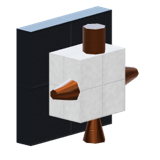
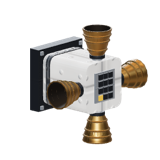
docs(plan-277): complete; 278 refined to parachutes and probe cores, new pods split to 300, RCS follow-ups in 299

diff --git a/docs/plans/277-rcs-family.md b/docs/plans/277-rcs-family.md
@@ -1,8 +1,8 @@
 ---
 id: 277
 title: "RCS family: 4-way block remodel, 5-way, linear port, corner block, bipropellant thruster, per-axis toggles"
-status: draft
-owner: ""
+status: done
+owner: "part visuals session (Claude)"
 depends: [291]
 phase: 0
 created: 2026-10-21
@@ -13,7 +13,7 @@ updated: 2026-10-21
 
 ## Goal
 
-RCS parts look like the owner's reference (rounded housing with panels and keypad, dark base plate, stub pipes, ribbed hollow bronze bells) and come in the shapes players need: 4-way, 5-way (Apollo quad), linear port, corner block and a large bipropellant thruster; each axis (pitch, yaw, roll, translate) can be toggled per part.
+RCS parts look like the owner's reference (the RV-105 card): a rounded white housing with a seam band and an inset keypad, a dark base plate with corner bolts, a short stub pipe and a collar per nozzle, and ribbed, hollow bronze bells. The family covers the shapes players need: the 4-way block, a 5-way block (the 4-way cross plus one nozzle out of the front, as on a service module's quads), a 2-way pair along the hull, a 1-nozzle linear port, and the cold-gas thruster. The bells are drawn exactly where the module's nozzles push, so model, puffs and forces agree.
 
 ## Context
 
@@ -23,8 +23,8 @@ RCS parts look like the owner's reference (rounded housing with panels and keypa
 
 ## Scope
 
-**In:** RCS generator rewrite with variants by `nozzles` layout; new parts; per-axis toggles in `ModuleRcs` if missing (panel and action groups); OrbitX titles.
-**Out:** RCS ports built into pods (278).
+**In:** `rcs-block.ts` rewritten with the kit (bells read from `visual.puffs.nozzles`); new parts `stock.rcs-block-5`, `stock.rcs-pair`, `stock.rcs-linear` in the Reaction control tech node; OrbitX titles for the five thrusters (ADR 0255); tests.
+**Out:** a bipropellant (LF+Ox) thruster and pitch/yaw/roll toggles: both need sim work (`ModuleRcs` burns one propellant, and its torque demand is in the part frame), moved to draft plan 299. The existing rotation and translation toggles stay. RCS ports built into pods (278).
 
 ## Design notes
 
@@ -32,26 +32,29 @@ The nozzle layout is data (directions), so the sim needs no new logic beyond the
 
 ## Steps
 
-1. Rewrite `rcs-block.ts` with the kit.
-2. Add the new parts and their nozzle data.
-3. Axis toggles in the module and panel.
+1. Rewrite `rcs-block.ts`: plate, rounded housing, keypad, and per nozzle a stub, a collar and a ribbed bronze bell at the nozzle's exit, pointing along the exhaust.
+2. Add the three new parts and their tech-node entries; rename the thrusters.
+3. Tests: nozzle data and puffs agree, nozzles inside the box, the new layouts; shape and seam tests.
+4. Icons rendered from the dev server.
 
 ## Acceptance criteria
 
-- [ ] A test asserts every RCS part's model nozzle directions equal its `ModuleRcs` nozzle directions.
-- [ ] With roll disabled on all blocks, a roll command gives zero RCS torque (sim test).
-- [ ] `bun test`, `bun run typecheck`, `bun run build` and `bun run docs:check` pass.
-- [ ] Screenshots of every new or remodelled part (catalogue icon and in the Hangar) in the journal, before and after.
+- [x] A test asserts every RCS part's model nozzles (its puff list, which the generator draws) equal its `ModuleRcs` nozzles, inside its box (`mods/stock/test/rcs.test.ts`).
+- [x] The five-way block can push the vessel inward and the pair only along the hull (same file).
+- [x] Shape, seam and part-id tests pass with the new parts (`parts.test.ts`, `part-seams.test.ts`, `boot.test.ts`, the part-id snapshot: additions only).
+- [x] `bun run lint` (another session's `.claude/launch.json` left out), `bun run typecheck`, `bun run test`, web vitest with `CI=true` and `bun run docs:check` pass, apart from the two script-thread tests that already fail on main (STATUS.md, Known issues).
+- [x] Icons in `refs/part-visuals-and-blueprints/img/icons-after/rcs-*.png`.
 
 ## Docs checklist
 
-- [ ] `docs/STATUS.md` updated (board row, next plan, open issues).
-- [ ] `docs/journal/277-rcs-family.md` written.
-- [ ] Affected `docs/architecture/*.md` updated to match what shipped.
-- [ ] New ADRs written for any decision made here, linked above.
-- [ ] `docs/research/stack-versions.md` updated for anything looked up.
-- [ ] `refs/part-visuals-and-blueprints/parts-tracker.md`: status column of every tracker ID this plan delivers.
+- [x] `docs/STATUS.md` updated (board row, next plan, open issues).
+- [x] `docs/journal/277-rcs-family.md` written.
+- [x] Affected docs: none describe the RCS model.
+- [x] New ADRs: none.
+- [x] `docs/research/stack-versions.md`: nothing looked up.
+- [x] `refs/part-visuals-and-blueprints/parts-tracker.md`: status column of every tracker ID this plan delivers.
 
 ## Log
 
 - 2026-10-21 — Drafted from the part-visuals research and the owner's decisions of 2026-10-21 (CTO calls delegated by the owner). Not to be started until the owner releases the parts work: on 2026-10-21 main is busy with renderer fixes and a UI/UX agent.
+- 2026-10-21 — Refined and done (owner: rocket parts first). Bipropellant thruster and axis toggles moved to draft 299. Journal 277.

diff --git a/docs/roadmap/release-roadmap.md b/docs/roadmap/release-roadmap.md
@@ -6,7 +6,7 @@
 
 **Visual:** [`release-roadmap.html`](release-roadmap.html). Open it in a browser to see the dependency graph, the waves, the critical path and the plan details.
 
-**Plans:** 200–253, 275–289, 291 and 295–298 (295–298 added 2026-10-21 for the owner's mission targets) (291 was drafted as 274 and renumbered at the merge, 274 being taken; 288–289 split off for the Linux worker on 2026-10-21; 275–287 added 2026-10-21: parts v2, robotics and real-rocket blueprints, research in `refs/part-visuals-and-blueprints/`; 251–253 added 2026-10-20: graphics phases 0 and 1, in v1.0.0; 240–250 added 2026-10-20 as the v1.1 wave from the release audit, owner's order; 233–236 added 2026-10-19 from the owner's manual test, ADR 0222; 237–239 added 2026-10-20 from the release audit, bugs fixed before v1.0.0). **ADRs:** 0200 onward. The visual page is generated: `bun run roadmap:release`.
+**Plans:** 200–253, 275–289, 291, 295–300 (299–300 split from 277 and 278; 295–298 added 2026-10-21 for the owner's mission targets) (291 was drafted as 274 and renumbered at the merge, 274 being taken; 288–289 split off for the Linux worker on 2026-10-21; 275–287 added 2026-10-21: parts v2, robotics and real-rocket blueprints, research in `refs/part-visuals-and-blueprints/`; 251–253 added 2026-10-20: graphics phases 0 and 1, in v1.0.0; 240–250 added 2026-10-20 as the v1.1 wave from the release audit, owner's order; 233–236 added 2026-10-19 from the owner's manual test, ADR 0222; 237–239 added 2026-10-20 from the release audit, bugs fixed before v1.0.0). **ADRs:** 0200 onward. The visual page is generated: `bun run roadmap:release`.
 
 ## Machines and queues (since 2026-10-19)
 
@@ -49,7 +49,7 @@ Claims are annotated tags (`claim/NNN` with the worker's name); the visual page 
 | 6b | **251** graphics measurement and M5 baseline (M) → **252** pixel budget, Retina quick wins (L) and **253** governor (M) |
 | 7 | **232** release QA and launch (M): the `v1.0.0` tag waits for 237–239 and 251–253 |
 | v1.1 | A: **244** Hangar attach and pick-up (L) → **243** interstage fairings (L) · C: **247** warp stops and alerts (M) → **248** shell everywhere, branch 3D (M) → **250** panel polish (M) · D: **240** part read-outs (M) → **241** part controls (L) → **242** lights (M) · E: **245** abort, stop warp, trim (M) → **246** dust, heat bars, Splashed, tooltips (M) → **249** EVA helmet and chute (M) |
-| Parts v2 (owner 2026-10-21, ADRs 0255–0265; mission targets: Apollo 11, Shuttle, station, rover, orbiter, telescope, research satellite; map in `refs/part-visuals-and-blueprints/parts-tracker.md` §11) | Done: **288** joint spike (no-go, ADR 0265 proposed), **289** size classes. **Rocket parts first:** **291** detail kit, liveries, icons (M) → **275** sizes part 2 (M) → **277** RCS (M) → **278** pods and chutes (L) → **276** engines, SRBs, LES (L) → **280** power, comms, science (L) → **281** bays and structure (L) → **296** lunar lander (L) → **298** satellites and telescope (M) → **297** station modules (L) → **295** shuttle (L). **Then:** **279** Hangar free placement (L, can run beside the parts chain), **285** blueprint Library (L) → **286** mission blueprints (L). **After rockets:** **283** rover (L) → **287** rover mission and other rockets (L) → **284** inventory and deployed science (L). **Last:** **282** robotics (after ADR 0265 is decided) |
+| Parts v2 (owner 2026-10-21, ADRs 0255–0265; mission targets: Apollo 11, Shuttle, station, rover, orbiter, telescope, research satellite; map in `refs/part-visuals-and-blueprints/parts-tracker.md` §11) | Done: **288** joint spike (no-go, ADR 0265 proposed), **289** size classes. **Rocket parts first:** **291** detail kit, liveries, icons (M) → **275** sizes part 2 (M) → **277** RCS (M) → **278** parachutes and probe cores (M) → **300** new pods (L) → **276** engines, SRBs, LES (L) → **280** power, comms, science (L) → **281** bays and structure (L) → **296** lunar lander (L) → **298** satellites and telescope (M) → **297** station modules (L) → **295** shuttle (L). **Then:** **279** Hangar free placement (L, can run beside the parts chain), **285** blueprint Library (L) → **286** mission blueprints (L). **After rockets:** **283** rover (L) → **287** rover mission and other rockets (L) → **284** inventory and deployed science (L). **Last:** **282** robotics (after ADR 0265 is decided) |
 
 **Critical path** (the longest dependency chain):
 

diff --git a/docs/plans/278-pods-probes-and-parachutes.md b/docs/plans/278-pods-probes-and-parachutes.md
@@ -1,19 +1,26 @@
 ---
 id: 278
-title: "Pods, probes and parachutes: 3-seat, headlight, sphere and small capsules, lander cabins, probe cores, chutes that continue the pod, docking chute ring"
+title: "Parachutes and probe cores: a chute that continues the pod, a docking chute ring, slim radial packs, an octagonal probe core"
 status: draft
 owner: ""
-depends: [291, 277]
+depends: [291]
 phase: 0
 created: 2026-10-21
 updated: 2026-10-21
 ---
 
-# 278 — Pods, probes and parachutes: 3-seat, headlight, sphere and small capsules, lander cabins, probe cores, chutes that continue the pod, docking chute ring
+# 278 — Parachutes and probe cores
 
 ## Goal
 
-The pod family covers the real-rocket blueprints (3-seat Apollo-like, Soyuz-like headlight descent module, Vostok-like sphere, Mercury-like small cone, lander cans, crew cabin; the LM-like cabin is plan 296 and the cupola plan 297), probes look like probes (octagon, sphere with whips; the satellite bus is plan 298), and parachutes follow ADR 0260: nose chute continuing the pod slope, docking chute ring with a top node, curved radial packs, built-in chutes on the 3-seat pod.
+The owner's complaint first: the stack chute is an upright can on the pod and cannot share the apex with a docking port. After this plan (ADR 0260):
+
+- the stack and drogue chutes are short frustums that continue the pod's slope, with a two-tone cap;
+- a docking chute ring sits on the pod's apex with a top node for a docking port, its canopies opening around the port;
+- the radial chute is a slim rounded pack;
+- the probe core is an octagonal, foil-panelled body with a status lamp, not a striped tube.
+
+The new pods moved to plan 300.
 
 ## Context
 
@@ -23,8 +30,8 @@ The pod family covers the real-rocket blueprints (3-seat Apollo-like, Soyuz-like
 
 ## Scope
 
-**In:** New and remodelled pod and probe generators with windows, hatches, ladders and built-in RCS ports; parachute generator with `taper`; docking chute ring part and multi-anchor canopies; radial chute remodel; OrbitX titles.
-**Out:** Cockpits and spaceplane parts (shuttle: plan 295); the lander cabin (296), the cupola (297), the satellite bus (298).
+**In:** the parachute generator (a `taper` parameter, frustum profile, cap, details; radial pack); multi-anchor canopies; `stock.parachute-ring` (sim: a parachute part with a top node); a `probe` generator for `stock.probe-core`; OrbitX titles for the chutes and the probe core.
+**Out:** the new pods (plan 300); built-in chutes on a 3-seat pod (300); the lander cabin (296), the cupola (297), the satellite bus (298); the pod collar drawing no step under a chute (needs the renderer to know a part's neighbours; later).
 
 ## Design notes
 
@@ -32,17 +39,18 @@ Crew capacity, masses and heat tolerances from the KSP ranges in `refs/reverse-e
 
 ## Steps
 
-1. Pod generators and parts.
-2. Probe generators and parts.
-3. Parachute rework and the docking chute ring (sim: port stays attached while the ring deploys).
-4. Re-entry test for each capsule with its heat shield.
+1. Parachute generator: frustum continuing the pod's slope, cap, details; drogue with a pointed tip; radial pack.
+2. Multi-anchor canopies; the docking chute ring part, in the recovery tech node.
+3. Probe generator and the probe core's visual.
+4. Tests and icons.
 
 ## Acceptance criteria
 
-- [ ] Each new capsule re-enters base first and lands under its chutes at under 8 m/s (headless test per capsule).
-- [ ] A pod with the docking chute ring and a docking port docks, undocks and then lands under the ring's canopies (sim test).
-- [ ] `bun test`, `bun run typecheck`, `bun run build` and `bun run docs:check` pass.
-- [ ] Screenshots of every new or remodelled part (catalogue icon and in the Hangar) in the journal, before and after.
+- [ ] A pod with the docking chute ring and a small docking port on it, dropped at 5 km and 250 m/s, lands under 8 m/s with the port still attached (sim test).
+- [ ] The stack chute's wall continues the pod's cone: its slope is within 10 % of the pod's cone slope near the collar (renderer test on the profiles).
+- [ ] Shape, seam and part-id tests pass with the new part.
+- [ ] `bun run lint`, `bun run typecheck`, `bun run test`, web vitest with `CI=true` and `bun run docs:check` pass (the two known script-thread failures aside).
+- [ ] Icons before and after in the journal.
 
 ## Docs checklist
 

diff --git a/docs/journal/277-rcs-family.md b/docs/journal/277-rcs-family.md
@@ -1,0 +1,42 @@
+# 277 — The RCS family
+
+**Plan:** [plans/277-rcs-family.md](../plans/277-rcs-family.md) · **Session:** part visuals session (Claude), 2026-10-21, on `main` after plan 291
+
+## What was done
+
+| Where | What |
+|---|---|
+| `packages/renderer/src/parts/generators/rcs-block.ts` | Rewritten with the detail kit, after the owner's reference (the revamped RV-105 card): a dark base plate with corner bolts, a rounded white housing (a rounded rectangle extruded from the plate) with a dark seam band, an inset keypad panel (3 × 4 keys, one accent key), and per nozzle a stub pipe, a dark collar and a ribbed, hollow bronze bell. The housing shrinks to leave room for every nozzle |
+| Same file | The bells come from `visual.puffs.nozzles`, the list the part's `stock.rcs` module fires. A nozzle's `pos` is the centre of its bell's exit and the exhaust leaves along `-dir`. Parts without puffs get the plan 211 layout from `params.nozzles` |
+| `mods/stock/src/parts/rcs.ts` | `stock.rcs-block-5` (the 4-way cross plus one nozzle out of the front, 60 kg), `stock.rcs-pair` (up and down only, 30 kg), `stock.rcs-linear` (one nozzle, 20 kg). All are monopropellant at 1 kN and Isp 240/100 s like the block. The five thrusters are renamed in the `OrbitX <code> "<nickname>"` form plan 289 used: OrbitX RCS-4 "Kompas", RCS-5 "Bintang", RCS-2 "Sepasang", RCS-1 "Tunggal", CG-1 "Hembus" (ADR 0255) |
+| `mods/stock/src/tech.ts` | The three new parts are in Reaction control |
+| Tests | `rcs.test.ts`: puffs equal the module's nozzles for every thruster, nozzles inside the box, the new layouts. `boot.test.ts`: ids and the radial-node exception list. Part-id snapshot: additions only. `apps/web/e2e/career-content.e2e.ts`: the block's new title (e2e not run, owner's instruction) |
+
+## What surprised me
+
+- **The sim positions of the existing parts did not change.** Drawing the bells at the module's own nozzles meant the 4-way block's model moved to its data, not the other way round, so no flight test changed.
+- **A thin part makes tiny bells.** The bell size comes from the smaller of the part's height and depth. The pair at 0.14 m deep had 3 cm bells, so it is now 0.2 m deep.
+
+## Decisions made
+
+None new. The bipropellant thruster and the pitch, yaw and roll toggles moved to draft 299: `ModuleRcs` burns one propellant, and its torque demand is in the part frame.
+
+## Open questions / follow-ups
+
+- Plan 299.
+- RCS ports in the shell of the new pods: plan 278.
+
+## Verification output
+
+```
+bun test mods/stock + renderer parts, part-seams, parts-kit: 184 pass, 0 fail
+bun run typecheck: no errors
+prettier --check . (without another session's .claude/launch.json): clean; web lint: clean
+bun run test (full, parallel load, load average about 5): 2104 pass, 1 fail
+  the fail: career-bot.test.ts took 125 s against its 45 s timing bound (load);
+  alone: bun test packages/sim/test/career-bot.test.ts -> 9 pass, 0 fail
+apps/web CI=true bun run test: Tests 2 failed | 1372 passed; the two are the known
+  sim-host-script-worker.test.ts failures that also fail on HEAD b767aeb0 (STATUS.md)
+```
+
+Icons: `refs/part-visuals-and-blueprints/img/icons-after/rcs-block.png`, `rcs-block-5.png`, `rcs-pair.png`, `rcs-linear.png`, `rcs-cold-gas.png`.

diff --git a/docs/STATUS.md b/docs/STATUS.md
@@ -222,8 +222,8 @@
 | 274 | [v3 design leftovers: toasts, the chip flash, the Orbit panel, the demolish tint, the shell's Overview hook](plans/274-v3-design-leftovers.md) | draft | — | Left by 272 and 273. |
 | 275 | [Size classes, part two: new tank shapes, size filter](plans/275-size-classes-to-7-5-m.md) | draft | — | ADR 0256; after 289. |
 | 276 | [Engines, engine plates 5/8/9, segmented SRBs, escape tower](plans/276-engines-plates-srbs-and-escape-tower.md) | draft | — | ADR 0257. |
-| 277 | [RCS family: 4-way remodel, 5-way, linear, corner, bipropellant, axis toggles](plans/277-rcs-family.md) | draft | — | ADR 0257; owner's RV-105 reference. |
-| 278 | [Pods, probes and parachutes (chute continues the pod, docking chute ring)](plans/278-pods-probes-and-parachutes.md) | draft | — | ADR 0260. |
+| 277 | [RCS family: 4-way remodel, 5-way, linear, corner, bipropellant, axis toggles](plans/277-rcs-family.md) | done | part visuals session | RCS remodel after the RV-105 reference; new 5-way block, pair and linear port; bells drawn at the module\'s nozzles. Journal 277.
+| 278 | [Parachutes and probe cores (chute continues the pod, docking chute ring)](plans/278-pods-probes-and-parachutes.md) | draft | — | ADR 0260. |
 | 279 | [Hangar free placement: move/rotate gizmos, offset (format 4), docking ports anywhere](plans/279-hangar-free-placement-and-surface-mount.md) | draft | — | ADR 0258. |
 | 280 | [Power, comms, science, life support: surface-mount shapes, deploy, fuel cell](plans/280-power-comms-science-life-support.md) | draft | — | ADR 0259. |
 | 281 | [Payload bays with doors, petals, multi-couplers, trusses, lattice interstage](plans/281-payload-bays-couplers-and-structure.md) | draft | — | ADR 0261. |
@@ -244,6 +244,8 @@
 | 296 | [Lunar lander parts: descent stage, ascent cabin, single legs](plans/296-lunar-lander-parts.md) | draft | — | Mission target Apollo 11 ("Selene"). |
 | 297 | [Space station modules](plans/297-station-modules.md) | draft | — | Mission target "Stasiun Cakrawala". |
 | 298 | [Satellites and a space telescope](plans/298-satellites-and-telescope.md) | draft | — | Mission targets: orbiter, telescope, research satellite. |
+| 299 | [RCS follow-ups: bipropellant thruster, pitch/yaw/roll toggles](plans/299-rcs-bipropellant-and-axis-toggles.md) | draft | — | Split from 277: both need sim work. |
+| 300 | [New pods: 3-seat, headlight, sphere, small cone, lander cans, crew cabin](plans/300-new-pods.md) | draft | — | Split from 278. |
 
 Statuses: `draft` (needs refinement before an agent takes it) · `ready` · `in-progress` · `done` · `blocked`.
 
@@ -311,6 +313,7 @@ Existing drafts realigned on 2026-10-17: 063 (runway building), 065, 066, 067, 0
 
 ## Recent journal entries
 
+- [277 — The RCS family](journal/277-rcs-family.md)
 - [291 — Part detail kit, liveries and honest catalogue icons](journal/291-part-detail-kit-livery-and-icons.md)
 - [294 — A compact performance overlay](journal/294-performance-overlay.md)
 - [289 — Size classes to 7.5 m with the existing generators](journal/289-size-classes-with-existing-generators.md)

diff --git a/refs/part-visuals-and-blueprints/parts-tracker.md b/refs/part-visuals-and-blueprints/parts-tracker.md
@@ -120,11 +120,11 @@ KSP punya beberapa bentuk RCS. Bentuknya mengikuti **berapa arah dorong** dan **
 
 | ID | Part kita | Referensi KSP/KSP2 | Nozzle / sumbu | Bentuk & detail | Interaksi | Status | Prio |
 |---|---|---|---|---|---|---|---|
-| RCS-01 | Blok 4 arah (`rcs-block`) | RV-105 RCS Thruster Block | 4 nozzle bersilang (atas, bawah, kiri, kanan) | rumah membulat, pelat dasar gelap, keypad dan panel, 4 pipa stub, bell bertingkat berongga (README §3) | P (nyala/mati, per sumbu: pitch/yaw/roll/maju/samping), E (limiter) | 🎨 besar | P1 |
-| RCS-02 | Blok 5 arah | (blok 5 arah gaya Apollo/RV-1X, varian "5") *(nama KSP perlu verifikasi)* | 4 bersilang + 1 ke depan | rumah sama dengan RCS-01, tambah 1 nozzle menghadap luar | P, E | 🆕 | P1 (Apollo SM quad) |
-| RCS-03 | Port tunggal (`rcs-cold-gas`) | Place-Anywhere 7 Linear RCS Port | 1 nozzle lurus ke luar | lubang bell kecil di pelat bundar, bisa ditanam di dinding | P, E | 🎨 | P1 |
-| RCS-04 | Blok sudut 3 arah | RV-1X Variable Thruster Block (varian) *(perlu verifikasi)* | 2–3 nozzle (sudut) | rumah kecil, nozzle 90° | P, E | 🆕 | P2 |
-| RCS-05 | Pendorong besar bipropelan | Vernor Engine | 1 nozzle besar, bahan LF+Ox | silinder panjang dengan bell, pipa feed | P, E | 🆕 | P2 |
+| RCS-01 ✅ 277 | Blok 4 arah (`rcs-block`) | RV-105 RCS Thruster Block | 4 nozzle bersilang (atas, bawah, kiri, kanan) | rumah membulat, pelat dasar gelap, keypad dan panel, 4 pipa stub, bell bertingkat berongga (README §3) | P (nyala/mati, per sumbu: pitch/yaw/roll/maju/samping), E (limiter) | 🎨 besar | P1 |
+| RCS-02 ✅ 277 (`rcs-block-5`) | Blok 5 arah | (blok 5 arah gaya Apollo/RV-1X, varian "5") *(nama KSP perlu verifikasi)* | 4 bersilang + 1 ke depan | rumah sama dengan RCS-01, tambah 1 nozzle menghadap luar | P, E | 🆕 | P1 (Apollo SM quad) |
+| RCS-03 ✅ 277 (`rcs-linear`, `rcs-cold-gas`) | Port tunggal (`rcs-cold-gas`) | Place-Anywhere 7 Linear RCS Port | 1 nozzle lurus ke luar | lubang bell kecil di pelat bundar, bisa ditanam di dinding | P, E | 🎨 | P1 |
+| RCS-04 ✅ 277 sebagai pasangan 2 arah (`rcs-pair`) | Blok sudut 3 arah | RV-1X Variable Thruster Block (varian) *(perlu verifikasi)* | 2–3 nozzle (sudut) | rumah kecil, nozzle 90° | P, E | 🆕 | P2 |
+| RCS-05 → 299 | Pendorong besar bipropelan | Vernor Engine | 1 nozzle besar, bahan LF+Ox | silinder panjang dengan bell, pipa feed | P, E | 🆕 | P2 |
 | RCS-06 | Port tertanam di pod | (built-in di pod KSP2 / Apollo CM) | per pod | lubang nozzle terbenam di cangkang pod (bagian dari CMD-02/03) | ikut pod | 🆕 (di generator pod) | P2 |
 | RCS-07 | Mesin monoprop kecil | O-10 "Puff" | 1 bell, sebagai mesin | bell kecil, tangki bola mini | S, P | 🆕 | P3 |
 | RCS-08 | Pendorong besar KSP2 | VR-N1ER Veer-Governor [KSP2] | blok 4 arah besar | versi besar RCS-01 untuk 2,5 m | P, E | 🆕 | P3 |

diff --git a/docs/plans/300-new-pods.md b/docs/plans/300-new-pods.md
@@ -1,0 +1,64 @@
+---
+id: 300
+title: "New pods: a 3-seat capsule with built-in chutes, a headlight descent module, a sphere capsule, a small cone capsule, lander cans and a crew cabin"
+status: draft
+owner: ""
+depends: [291, 278]
+phase: 0
+created: 2026-10-21
+updated: 2026-10-21
+---
+
+# 300 — New pods
+
+## Goal
+
+The crewed parts the mission blueprints need:
+
+| Part | Style | Details |
+|---|---|---|
+| 3-seat capsule, 2.5 m | Apollo command module | five windows, a docking collar, RCS ports set into the shell, built-in mains under a forward cover |
+| Headlight descent module, 3 seats | Soyuz | |
+| Sphere capsule, 1 seat | Vostok | |
+| Small cone capsule, 1 seat | Mercury | |
+| Lander cans, 1 and 2 seats | | |
+| Crew cabin | | |
+
+Each capsule re-enters base first and lands under its chutes.
+
+## Context
+
+- Split from plan 278 (2026-10-21).
+- ADRs 0260 (built-in chutes), 0246 (low mass, blunt base), 0257 (kit), 0255 (names).
+- `refs/reverse-engineering-ksp-ksp2/09-parts-catalogue.md` §1.1 for crew, mass and heat ranges.
+
+## Scope
+
+**In:** generators and parts, built-in `ModuleParachute` on the 3-seat capsule, RCS ports in the pod shell (the nozzles in the pod's `ModuleRcs`), tech nodes, OrbitX titles.
+**Out:** the lander cabin (296), the cupola (297).
+
+## Design notes
+
+Each capsule's centre of mass and blunt base follow ADR 0246.
+
+## Steps
+
+1. Generators and parts, one capsule at a time.
+2. Re-entry and landing test per capsule.
+
+## Acceptance criteria
+
+- [ ] Each new capsule re-enters base first and lands under its chutes at under 8 m/s (sim test per capsule).
+- [ ] `bun run lint`, `bun run typecheck`, `bun run test`, web vitest with `CI=true` and `bun run docs:check` pass.
+
+## Docs checklist
+
+- [ ] `docs/STATUS.md` updated (board row, next plan, open issues).
+- [ ] `docs/journal/300-new-pods.md` written.
+- [ ] Affected `docs/architecture/*.md` updated to match what shipped.
+- [ ] New ADRs written for any decision made here, linked above.
+- [ ] `docs/research/stack-versions.md` updated for anything looked up.
+
+## Log
+
+- 2026-10-21 — Split from plan 278, so the parachutes the owner asked about come first.

diff --git a/docs/plans/299-rcs-bipropellant-and-axis-toggles.md b/docs/plans/299-rcs-bipropellant-and-axis-toggles.md
@@ -1,0 +1,54 @@
+---
+id: 299
+title: "RCS follow-ups: a bipropellant (LF+Ox) thruster and pitch, yaw and roll toggles"
+status: draft
+owner: ""
+depends: [277]
+phase: 0
+created: 2026-10-21
+updated: 2026-10-21
+---
+
+# 299 — RCS follow-ups: bipropellant thruster and axis toggles
+
+## Goal
+
+A large thruster that burns liquid fuel and oxidizer (KSP's Vernor kind, 12 kN), and per-part toggles for pitch, yaw, roll and each translation axis, as KSP offers.
+
+## Context
+
+- Plan 277 (journal 277): the RCS family; these two were left out because both need sim work.
+- `mods/stock/src/rcs.ts`: `ModuleRcs` burns one `propellant`; `nozzleFractions` gets the torque demand in the part frame, so a vessel-axis toggle needs the vessel's axes in the part frame.
+
+## Scope
+
+**In:** `propellants` (a mix) on `ModuleRcs`, additive; the part; axis toggles with a vessel-frame mask.
+**Out:** —
+
+## Design notes
+
+Use the engine's propellant mix code for the flow. For the axes, pass the vessel's up and forward axes in the part frame (as the gimbal does), project the demand, and mask the components.
+
+## Steps
+
+1. Propellant mix in the module, with tests.
+2. Axis toggles, with a test where roll off gives zero roll torque.
+3. The part, its generator settings (a larger bronze bell), the tech node.
+
+## Acceptance criteria
+
+- [ ] With roll disabled on all blocks, a roll command gives zero RCS torque (sim test).
+- [ ] The bipropellant thruster draws LF and Ox at 9:11 (sim test).
+- [ ] `bun run lint`, `bun run typecheck`, `bun run test`, web vitest with `CI=true` and `bun run docs:check` pass.
+
+## Docs checklist
+
+- [ ] `docs/STATUS.md` updated (board row, next plan, open issues).
+- [ ] `docs/journal/299-rcs-bipropellant-and-axis-toggles.md` written.
+- [ ] Affected `docs/architecture/*.md` updated to match what shipped.
+- [ ] New ADRs written for any decision made here, linked above.
+- [ ] `docs/research/stack-versions.md` updated for anything looked up.
+
+## Log
+
+- 2026-10-21 — Split out of plan 277.

diff --git a/docs/plans/286-real-rocket-blueprints-wave-1.md b/docs/plans/286-real-rocket-blueprints-wave-1.md
@@ -3,7 +3,7 @@ id: 286
 title: "Mission blueprints: Apollo 11 (Kronos V + Selene), Space Shuttle (Ulang-Alik), a space station, an orbiter, a space telescope and a research satellite"
 status: draft
 owner: ""
-depends: [276, 277, 278, 280, 281, 285, 295, 296, 297, 298]
+depends: [276, 277, 278, 280, 281, 285, 295, 296, 297, 298, 300]
 phase: 0
 created: 2026-10-21
 updated: 2026-10-21

diff --git a/docs/plans/296-lunar-lander-parts.md b/docs/plans/296-lunar-lander-parts.md
@@ -3,7 +3,7 @@ id: 296
 title: "Lunar lander parts: descent stage, ascent cabin, single landing legs, lander engines, lander RCS quads"
 status: draft
 owner: ""
-depends: [291, 277, 278]
+depends: [291, 277, 278, 300]
 phase: 0
 created: 2026-10-21
 updated: 2026-10-21
